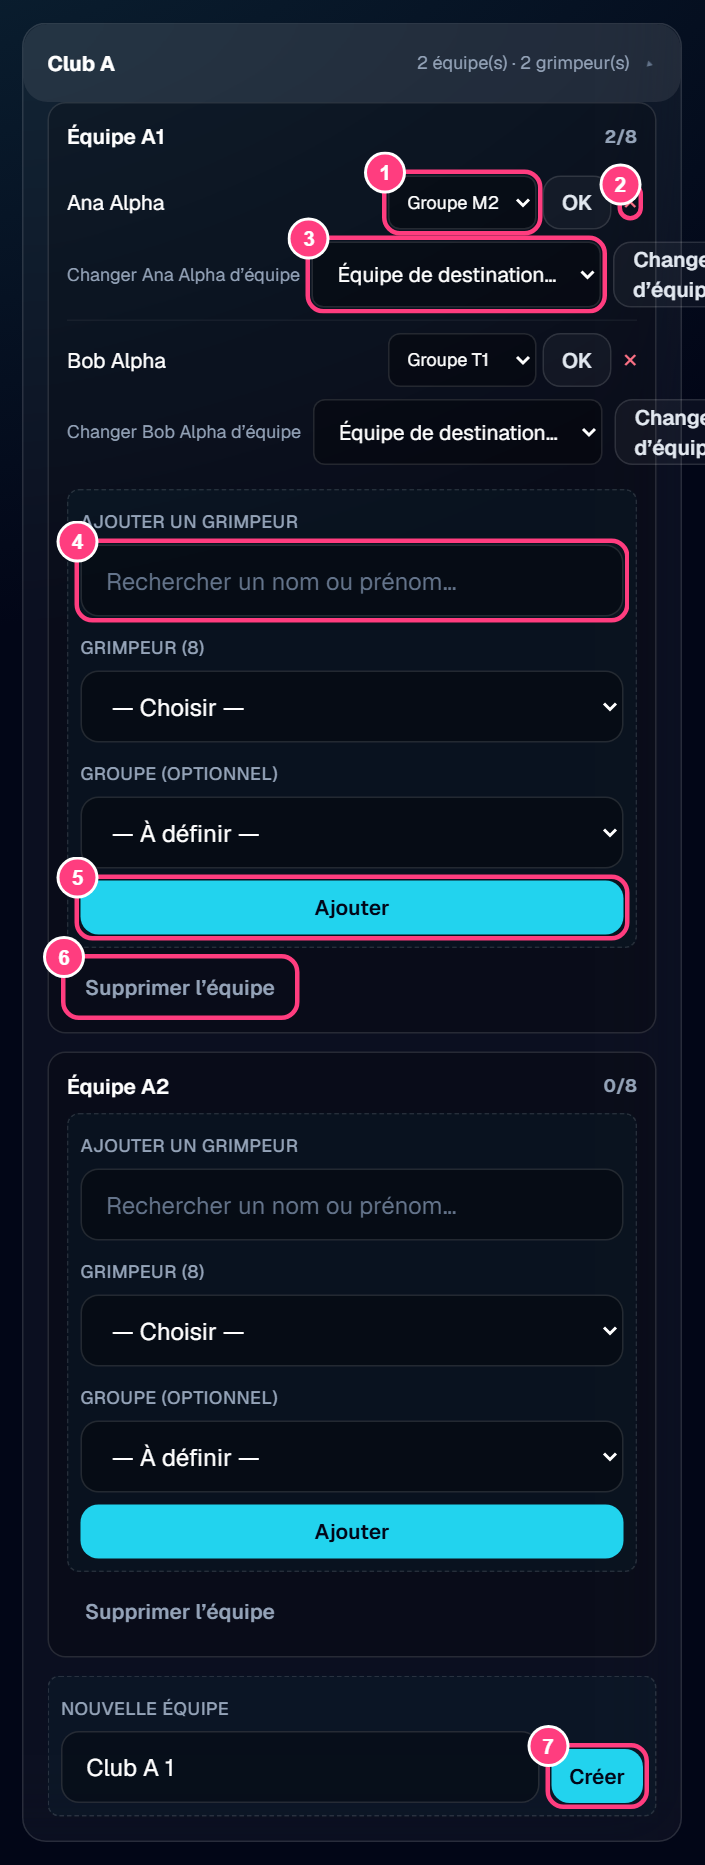
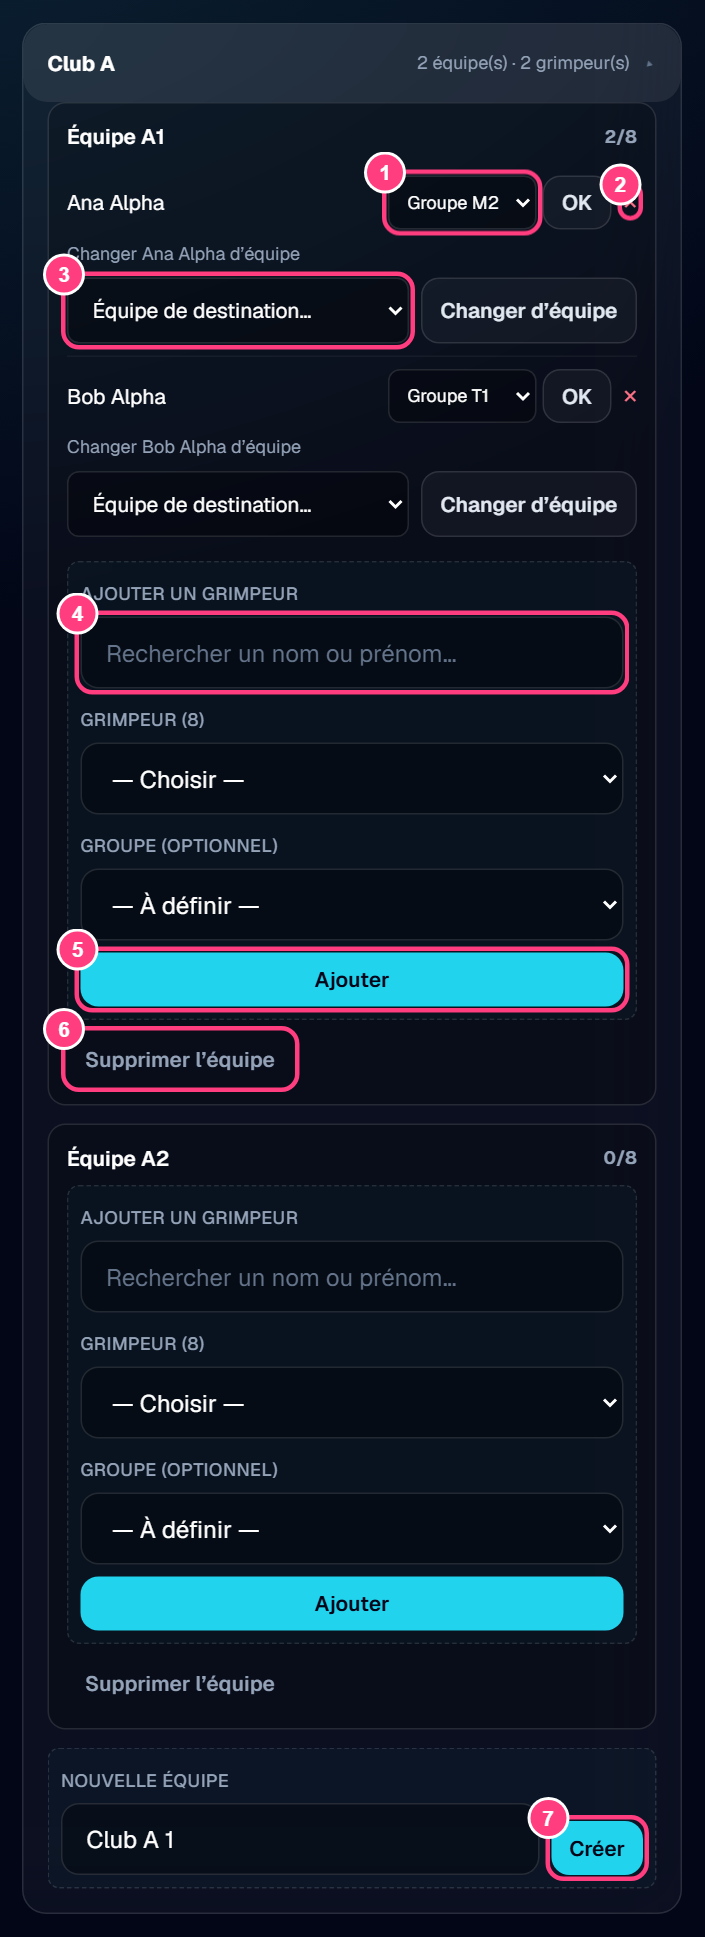
fix(admin): « Changer d'équipe » ne déborde plus de la carte d'équipe
Le formulaire passait en ligne selon la largeur de la fenêtre (sm:) alors que
la carte d'équipe reste étroite dans la colonne du tableau de bord de la
rencontre : à 1280 px, le bouton sortait de la carte. Il passe désormais à la
ligne selon la place réelle (flex-wrap), le bouton ne rétrécit plus.

Test E2E de non-régression (admin-equipes) et capture du guide admin mise à
jour.

diff --git a/src/app/admin/rencontres/[id]/panneau-equipes.tsx b/src/app/admin/rencontres/[id]/panneau-equipes.tsx
@@ -287,11 +287,14 @@ function FormChangerEquipe({
   const idCible = useId()
 
   return (
-    <form action={action} className="flex w-full flex-col gap-2 sm:flex-row sm:items-center">
+    // Retour à la ligne selon la place réelle (la carte d'équipe est étroite dans
+    // la colonne du tableau de bord, même sur grand écran) plutôt que selon la
+    // largeur de la fenêtre : le bouton ne déborde jamais de la carte.
+    <form action={action} className="flex w-full flex-wrap items-center gap-2">
       <input type="hidden" name="rencontreId" value={rencontreId} />
       <input type="hidden" name="equipeId" value={equipeId} />
       <input type="hidden" name="grimpeurId" value={membre.grimpeurId} />
-      <label htmlFor={idCible} className="text-xs text-texte-attenue sm:shrink-0">
+      <label htmlFor={idCible} className="basis-full text-xs text-texte-attenue">
         Changer {membre.prenom} {membre.nom} d’équipe
       </label>
       <select
@@ -299,7 +302,7 @@ function FormChangerEquipe({
         name="equipeCibleId"
         required
         defaultValue=""
-        className="h-11 w-full rounded-lg border border-bordure bg-black/30 px-3 text-base text-texte-fort [color-scheme:dark] focus:border-accent/60 focus:outline-none focus:ring-2 focus:ring-accent/20 sm:w-auto sm:text-sm"
+        className="h-11 min-w-0 flex-1 basis-40 rounded-lg border border-bordure bg-black/30 px-3 text-base text-texte-fort [color-scheme:dark] focus:border-accent/60 focus:outline-none focus:ring-2 focus:ring-accent/20 sm:text-sm"
       >
         <option value="" disabled className="bg-fond text-texte">
           Équipe de destination…
@@ -311,11 +314,11 @@ function FormChangerEquipe({
           </option>
         ))}
       </select>
-      <Bouton type="submit" taille="sm" variante="secondaire" disabled={enCours} className="h-11">
+      <Bouton type="submit" taille="sm" variante="secondaire" disabled={enCours} className="h-11 shrink-0">
         Changer d’équipe
       </Bouton>
       {etat?.erreur && (
-        <p role="alert" className="text-xs text-danger">
+        <p role="alert" className="basis-full text-xs text-danger">
           {etat.erreur}
         </p>
       )}

diff --git a/e2e/admin-equipes.spec.ts b/e2e/admin-equipes.spec.ts
@@ -57,4 +57,26 @@ test.describe('Écran admin — équipes tous clubs (R10)', () => {
     await equipeB2.getByRole('button', { name: /Supprimer l.équipe B2/ }).click()
     await expect(carteB.getByRole('heading', { name: 'B2' })).toHaveCount(0)
   })
+
+  test('« Changer d’équipe » reste dans la carte d’équipe sur grand écran (conv. 08)', async ({
+    page,
+  }) => {
+    // À 1280 px, la carte d'équipe est étroite (colonne du tableau de bord) :
+    // le formulaire ne doit pas déborder de la carte (régression 2026-10-10).
+    await page.setViewportSize({ width: 1280, height: 800 })
+    await commeAdmin(page)
+    await page.goto(`/admin/rencontres/${RENCONTRE_PILOTE}`)
+    const clubA = carteClub(page, 'Club A')
+    await clubA.locator('summary').first().click()
+
+    const equipeA1 = clubA.locator('[data-equipe="Équipe A1"]')
+    const bouton = equipeA1.getByRole('button', { name: /Changer d.équipe/ }).first()
+    await expect(bouton).toBeVisible()
+
+    const carte = await equipeA1.boundingBox()
+    const boite = await bouton.boundingBox()
+    expect(carte).not.toBeNull()
+    expect(boite).not.toBeNull()
+    expect(boite!.x + boite!.width).toBeLessThanOrEqual(carte!.x + carte!.width)
+  })
 })
